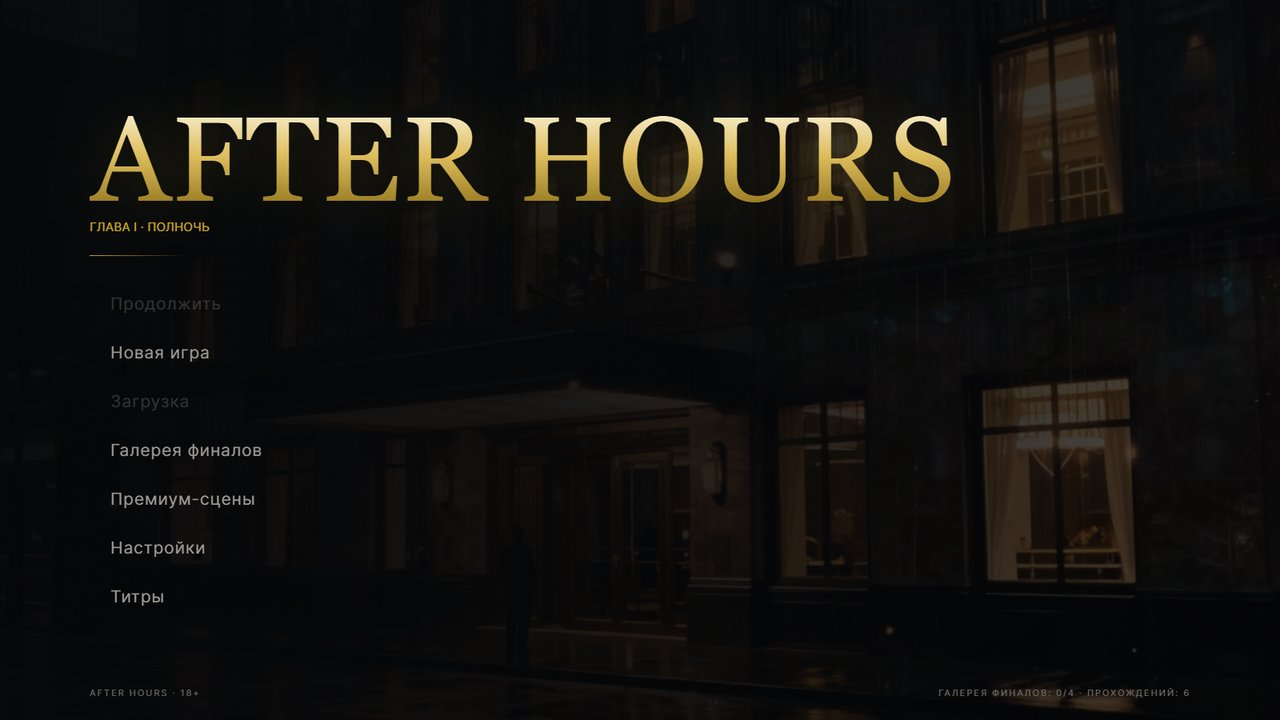
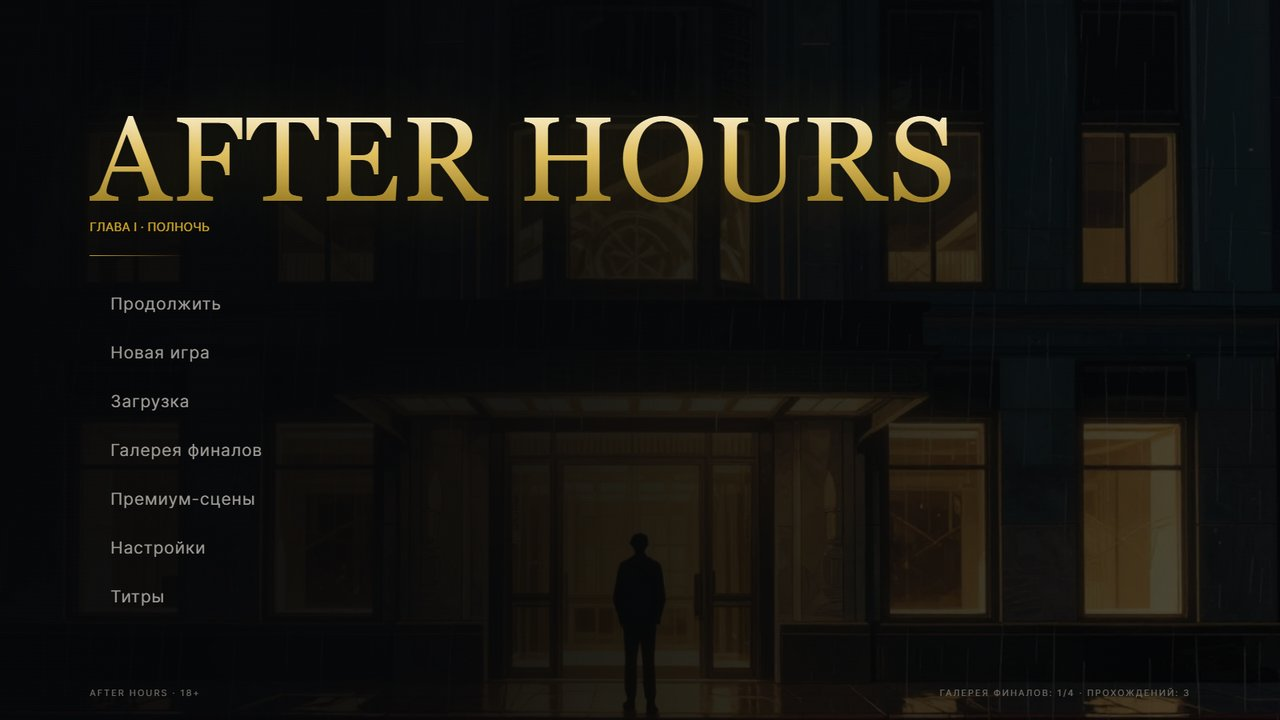
Screenshots: anime set first, add cinematic comparison

diff --git a/README.md b/README.md
@@ -50,6 +50,11 @@
 
 ![Выбор стиля графики](screenshots/03_style_picker.jpg)
 
+Первый набор - аниме/манга, он идёт по умолчанию и на него сделан упор. Второй,
+кинематографичный (полуреалистичная живопись), выглядит так:
+
+![Кинематографичный набор](screenshots/07_classic_scene.jpg)
+
 ---
 
 ## Запуск
